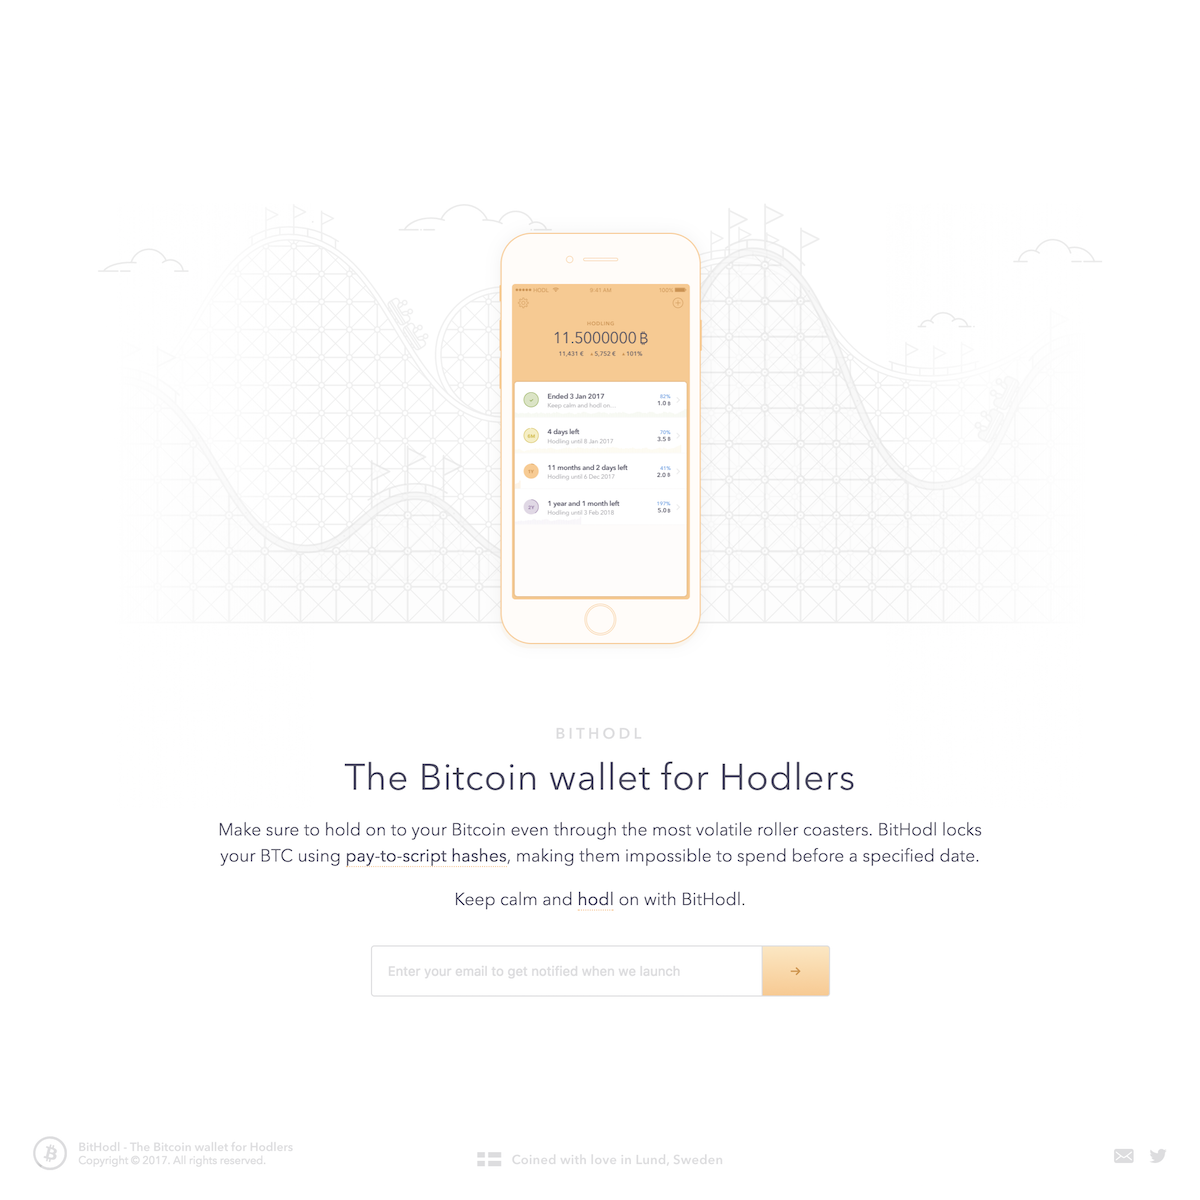
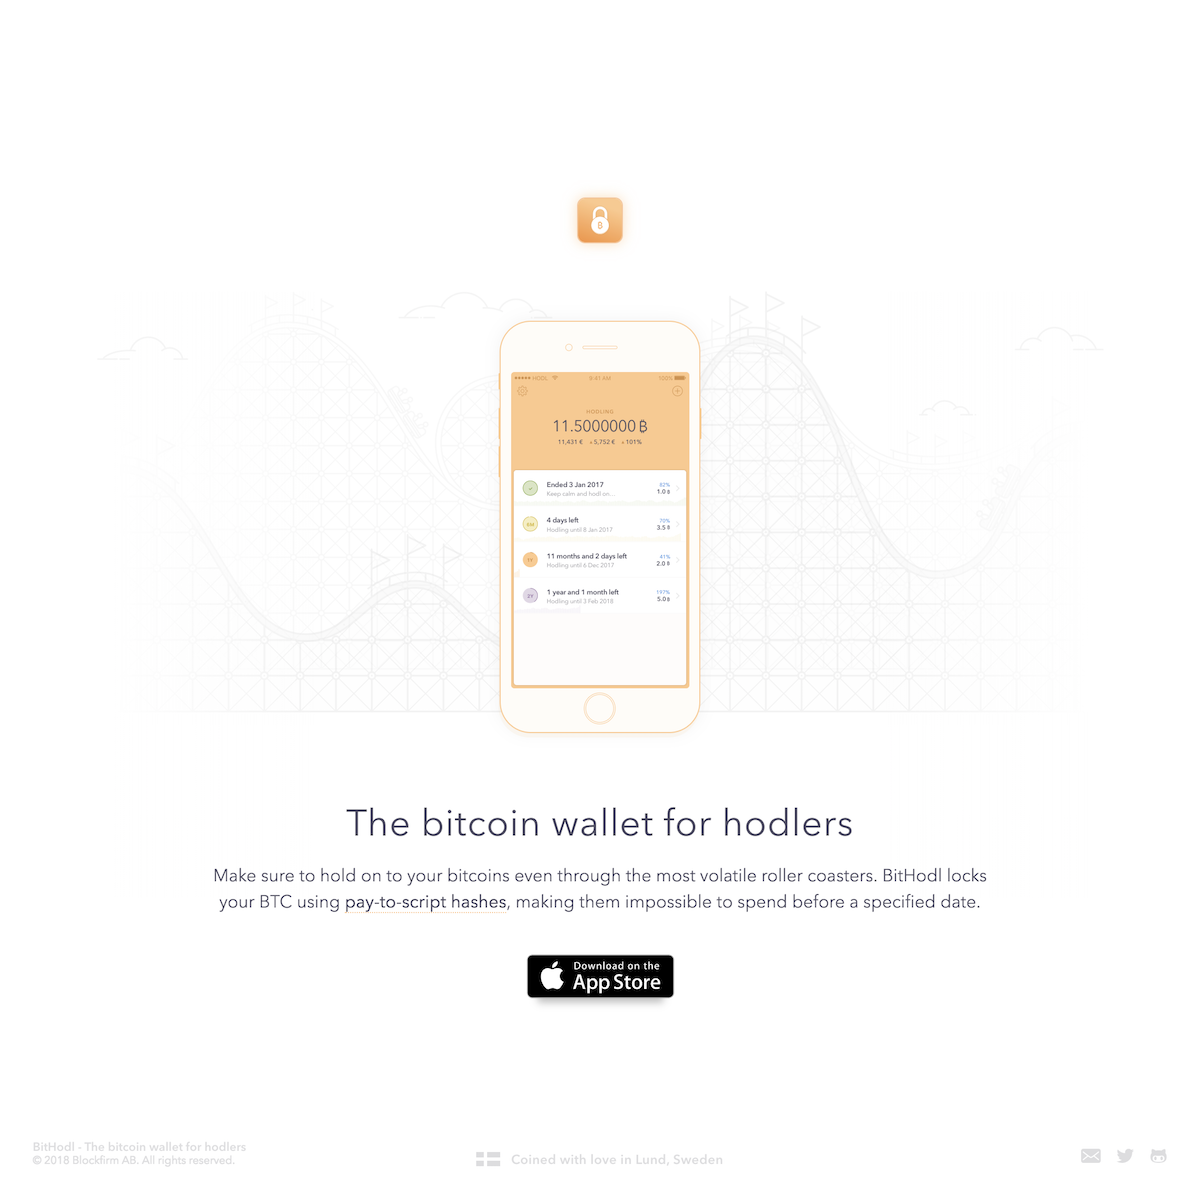
Make the website ready for launch
* Link to the App Store
* Link to GitHub
* Update copyright text
* Add app icon
* Update favicon

Changed region(s): [[0.185, 0.1542, 0.8325, 0.8633], [0.8942, 0.9558, 0.925, 0.9867], [0.0308, 0.9558, 0.0617, 0.9867]]

diff --git a/public/index.html b/public/index.html
@@ -1,18 +1,18 @@
 <!DOCTYPE html>
 <html lang="en">
   <head>
-    <title>BitHodl - The bitcoin wallet for Hodlers</title>
+    <title>BitHodl - The bitcoin wallet for hodlers</title>
 
     <meta charset="utf-8">
     <meta name="viewport" content="initial-scale=1.0, user-scalable=no, maximum-scale=1, width=device-width">
     <meta http-equiv="X-UA-Compatible" content="IE=edge">
-    <meta name="description" content="The bitcoin wallet for Hodlers. Make sure to hold on to your Bitcoin even through the most volatile roller coasters. BitHodl locks your BTC using pay-to-script hashes, making them impossible to spend before a specified date.">
+    <meta name="description" content="The bitcoin wallet for hodlers. Make sure to hold on to your bitcoins even through the most volatile roller coasters. BitHodl locks your BTC using pay-to-script hashes, making them impossible to spend before a specified date.">
     <meta name="keywords" content="bitcoin, wallet, hodl, hold, btc, ios, iphone">
     <meta name="author" content="timothy@bithodl.com">
 
     <meta property="og:url" content="https://bithodl.com">
     <meta property="og:title" content="BitHodl">
-    <meta property="og:description" content="The bitcoin wallet for Hodlers. Make sure to hold on to your Bitcoin even through the most volatile roller coasters. BitHodl locks your BTC using pay-to-script hashes, making them impossible to spend before a specified date.">
+    <meta property="og:description" content="The bitcoin wallet for hodlers. Make sure to hold on to your bitcoins even through the most volatile roller coasters. BitHodl locks your BTC using pay-to-script hashes, making them impossible to spend before a specified date.">
     <meta property="og:image" content="https://bithodl.com/img/screenshot.png">
     <meta property="og:image:secure_url" content="https://bithodl.com/img/screenshot.png">
     <meta property="og:image:width" content="1200">
@@ -21,27 +21,27 @@
     <link rel="shortcut icon" type="image/png" href="img/icons/favicon.png">
     <link href="https://fast.fonts.net/cssapi/ec1eace9-64e4-47f6-a9be-9a18234b2142.css" rel="stylesheet" type="text/css">
     <link href="css/styles.css" rel="stylesheet" type="text/css">
-
-    <script src="js/parallax.min.js"></script>
   </head>
   <body>
     <main>
       <div class="content">
+        <img class="app-icon anim fade-in" src="img/icons/Icon-40@2x.png" />
+
         <div id="scene" class="anim fade-in">
           <div class="layer" data-depth="0.20">
-              <div class="roller-coaster-back"></div>
-              <div class="scene-fade left"></div>
-              <div class="scene-fade right"></div>
+            <div class="roller-coaster-back"></div>
+            <div class="scene-fade left"></div>
+            <div class="scene-fade right"></div>
           </div>
 
           <div class="layer" data-depth="0.30">
-              <div class="roller-coaster-front"></div>
-              <div class="scene-fade left"></div>
-              <div class="scene-fade right"></div>
+            <div class="roller-coaster-front"></div>
+            <div class="scene-fade left"></div>
+            <div class="scene-fade right"></div>
           </div>
 
           <div class="layer" data-depth="0.10">
-              <div class="clouds"></div>
+            <div class="clouds"></div>
           </div>
 
           <div class="layer layer-full-width" data-depth="0.90">
@@ -58,42 +58,24 @@
         </div>
 
         <div class="text anim fade-in-down">
-          <h2>BitHodl</h2>
           <h1>
-            The Bitcoin wallet for Hodlers
+            The bitcoin wallet for hodlers
           </h1>
           <p>
-            Make sure to hold on to your Bitcoin even through the most volatile roller coasters.
+            Make sure to hold on to your bitcoins even through the most volatile roller coasters.
             BitHodl locks your BTC using <a href="https://en.bitcoin.it/wiki/Pay_to_script_hash" title="What's a pay-to-script hash?" target="_blank" rel="nofollow">pay-to-script hashes</a>,
             making them impossible to spend before a specified date.
           </p>
-          <p>
-            Keep calm and <a href="https://www.reddit.com/r/Bitcoin/comments/2b8t78/whats_hodl/" title="What's hodl?" target="_blank" rel="nofollow">hodl</a> on with BitHodl.
-          </p>
-
-          <!-- Begin MailChimp Signup Form -->
-          <form action="https://bithodl.us14.list-manage.com/subscribe/post?u=bb85a8c4e4605e1bf1ebf8f3f&amp;id=3cf26046f7" method="post" name="mc-embedded-subscribe-form" novalidate>
-            <div class="input-group">
-      	      <input type="email" value="" name="EMAIL" placeholder="Enter your email to get notified when we launch" required class="input">
-              <button type="submit" name="subscribe" title="Subscribe" class="button">
-                <span>&rarr;</span>
-              </button>
-            </div>
-            <div style="position: absolute; left: -5000px;" aria-hidden="true">
-              <input type="text" name="b_bb85a8c4e4605e1bf1ebf8f3f_3cf26046f7" tabindex="-1" value="">
-            </div>
-          </form>
-          <!-- End MailChimp Signup Form -->
+          <a class="app-store-button" href="https://itunes.apple.com/us/app/bithodl/id1335335821?mt=8" style="display:inline-block;overflow:hidden;background:url(https://linkmaker.itunes.apple.com/assets/shared/badges/en-us/appstore-lrg.svg) no-repeat;width:135px;height:40px;background-size:contain;"></a>
         </div>
       </div>
     </main>
 
     <footer>
       <div class="copyright anim fade-in">
-        <div class="copyright-logo"></div>
-        <h4>BitHodl - The Bitcoin wallet for Hodlers</h4>
+        <h4>BitHodl - The bitcoin wallet for hodlers</h4>
         <span class="copyright-text">
-          Copyright &copy; 2017. All rights reserved.
+          &copy; 2018 Blockfirm AB. All rights reserved.
         </span>
       </div>
 
@@ -126,6 +108,12 @@
             </g>
           </svg>
         </a>
+
+        <a class="link-github" href="https://github.com/blockfirm/bithodl-app" title="GitHub">
+          <svg class="icon-github" viewBox="0 0 1792 1792" xmlns="http://www.w3.org/2000/svg">
+            <path d="M704 1216q0 40-12.5 82t-43 76-72.5 34-72.5-34-43-76-12.5-82 12.5-82 43-76 72.5-34 72.5 34 43 76 12.5 82zm640 0q0 40-12.5 82t-43 76-72.5 34-72.5-34-43-76-12.5-82 12.5-82 43-76 72.5-34 72.5 34 43 76 12.5 82zm160 0q0-120-69-204t-187-84q-41 0-195 21-71 11-157 11t-157-11q-152-21-195-21-118 0-187 84t-69 204q0 88 32 153.5t81 103 122 60 140 29.5 149 7h168q82 0 149-7t140-29.5 122-60 81-103 32-153.5zm224-176q0 207-61 331-38 77-105.5 133t-141 86-170 47.5-171.5 22-167 4.5q-78 0-142-3t-147.5-12.5-152.5-30-137-51.5-121-81-86-115q-62-123-62-331 0-237 136-396-27-82-27-170 0-116 51-218 108 0 190 39.5t189 123.5q147-35 309-35 148 0 280 32 105-82 187-121t189-39q51 102 51 218 0 87-27 168 136 160 136 398z"/>
+          </svg>
+        </a>
       </div>
     </footer>
 
@@ -135,6 +123,7 @@
       </div>
     </div>
 
+    <script src="js/parallax.min.js"></script>
     <script>
       // Parallax
       var scene = document.getElementById('scene');
@@ -145,7 +134,7 @@
         frictionX: 1
       });
 
-      // iPhone zoom in modal
+      // iPhone zoom in modal.
       var iphone = document.getElementById('iphone');
       var modal = document.getElementById('modal');
 

diff --git a/public/css/styles.css b/public/css/styles.css
@@ -18,11 +18,13 @@ main {
   display: flex;
   justify-content: center;
   align-items: center;
+  padding: 70px 0;
   position: fixed;
   top: 0;
   left: 0;
   right: 0;
   bottom: 0;
+  overflow: hidden;
 }
 
 h1, h2, h3, h4, h5, h6 {
@@ -36,13 +38,6 @@ h1 {
   font-size: 34px;
   letter-spacing: 0.5px;
   margin: 0;
-}
-h2 {
-  font-family: 'Avenir Next LT W01 Demi', 'Avenir Next', sans-serif, arial;
-  font-size: 14px;
-  text-transform: uppercase;
-  letter-spacing: 3px;
-  color: #DDDDDF;
 }
 
 p {
@@ -112,12 +107,14 @@ a:active {
   height: 114px;
   background: url(../img/clouds.svg);
   background-size: cover;
+  opacity: 0.5;
 }
 
 .roller-coaster-back,
 .roller-coaster-front {
   background-size: cover;
   margin-bottom: 120px;
+  opacity: 0.5;
 }
 .roller-coaster-back {
   width: 923px;
@@ -128,7 +125,6 @@ a:active {
   width: 923px;
   height: 386px;
   background-image: url(../img/roller-coaster-front.svg);
-  opacity: 0.7;
 }
 
 .iphone {
@@ -199,6 +195,29 @@ a:active {
   margin-left: -93px;
 }
 
+.app-icon {
+  width: 40px;
+  height: 40px;
+  border-radius: 17.544%;
+  box-shadow: 0 0 18px rgba(254, 201, 138, 0.6);
+  margin-bottom: 40px;
+}
+
+a.app-store-button {
+  margin-top: 20px;
+  border: none;
+  border-radius: 5px;
+  box-shadow: 0 14px 10px -10px rgba(0, 0, 0, 0.25);
+  -webkit-transition: transform 0.2s ease-out, box-shadow .2s ease-out;
+  -moz-transition: transform 0.2s ease-out, box-shadow .2s ease-out;
+  -o-transition: transform 0.2s ease-out, box-shadow .2s ease-out;
+  transition: transform 0.2s ease-out, box-shadow .2s ease-out;
+}
+a.app-store-button:hover {
+  box-shadow: 0 16px 12px -10px rgba(0, 0, 0, 0.25);
+  transform: scale(1.05);
+}
+
 .text {
   display: inline-block;
   max-width: 730px;
@@ -239,25 +258,16 @@ footer a:active svg {
 }
 
 .copyright {
-  position: absolute;
+  position: fixed;
   left: 30px;
   bottom: 30px;
   color: #DDDDDF;
-  padding-left: 42px;
 }
 .copyright h4 {
   font-family: 'Avenir Next LT W01 Demi', 'Avenir Next', sans-serif, arial;
   font-size: 11px;
   margin: 0;
   margin-top: 3px;
-}
-.copyright-logo {
-  width: 32px;
-  height: 32px;
-  background: url(../img/logo-footer.svg) no-repeat;
-  background-size: 32px 32px;
-  position: absolute;
-  left: 0;
 }
 .copyright-text {
   display: block;
@@ -266,7 +276,7 @@ footer a:active svg {
 }
 
 .love {
-  position: absolute;
+  position: fixed;
   bottom: 30px;
   left: 50%;
   transform: translate(-50%);
@@ -286,7 +296,7 @@ footer a:active svg {
 }
 
 .social {
-  position: absolute;
+  position: fixed;
   right: 30px;
   bottom: 30px;
 }
@@ -302,6 +312,16 @@ footer a:active svg {
 .icon-twitter {
   width: 17px;
   height: 13px;
+}
+
+.icon-github {
+  width: 16px;
+  height: 16px;
+}
+
+.link-github {
+  position: relative;
+  top: 1px;
 }
 
 form {
@@ -503,6 +523,11 @@ input.input:placeholder-shown {
     margin-top: 100px;
   }
 
+  .copyright,
+  .social {
+    position: absolute;
+  }
+
   .love {
     display: none;
   }
@@ -532,5 +557,25 @@ input.input:placeholder-shown {
   .roller-coaster-front,
   .roller-coaster-back {
     margin-left: -350px;
+  }
+}
+
+@media (max-height: 840px) {
+  main {
+    position: static;
+  }
+
+  footer {
+    position: relative;
+    margin-top: 100px;
+  }
+
+  .copyright,
+  .social {
+    position: absolute;
+  }
+
+  .love {
+    display: none;
   }
 }

diff --git a/README.md b/README.md
@@ -17,4 +17,4 @@ And then browse to <http://localhost:3001/>.
 
 ## Copyright
 
-Copyright 2017 Timothy E. Johansson. All rights reserved.
+Copyright 2018 Blockfirm. All rights reserved.
